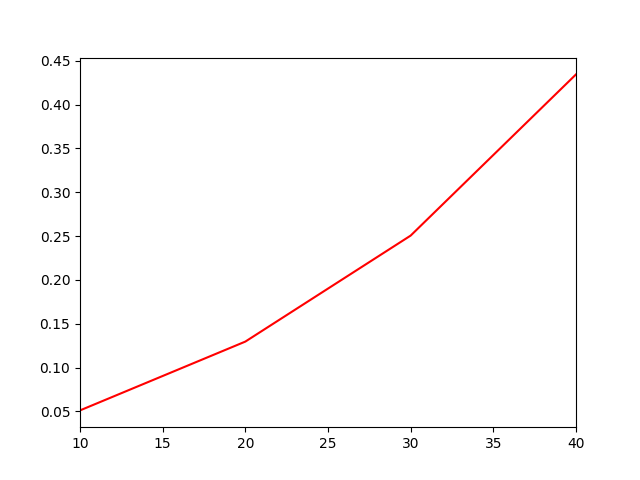
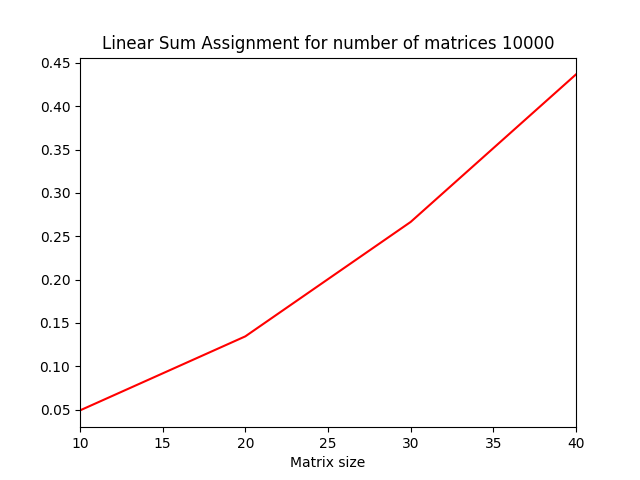
updating the ploting and then more timing runs and adding the greedy algo extended

diff --git a/src/PlotingMockData.py b/src/PlotingMockData.py
@@ -2,58 +2,59 @@ import matplotlib.pyplot as plt
 from src.MockDataGenerator import MockDataGenerator
 from src.OptimizeAlgoApplied import OptimizeAlgoApplied
 from src.GreedyAlgo import GreedyAlgo
+from src.GreedyAlgoExtended import GreedyAlgoExtended
 import os
 import timeit
+import time
+import h5py
 
 if __name__ == '__main__':
     MockDataGenerator = MockDataGenerator()
     OptimizeAlgoApplied = OptimizeAlgoApplied()
     GreedyAlgo = GreedyAlgo(OptimizeAlgoApplied)
-    """
-    matrix_sizes = [10, 20, 40, 60, 80, 100]
-    number_of_matrices = 10000
+    GreedyAlgoExtended = GreedyAlgoExtended(OptimizeAlgoApplied)
+
+
+    matrix_sizes = [i for i in range(10, 121, 5)]
+    num_of_matrices = 25000
 
     execution_times_linear = []
     execution_times_greedy = []
-
-    for matrix_size in matrix_sizes:
-        cost_matrices = MockDataGenerator.loadig_mock_data(f'./data/mock_data_{matrix_size}.h5', number_of_matrices)
-        execution_time_linear = timeit.timeit('[OptimizeAlgoApplied.compute_linear_sum_assignment(cost_matrices[i]) for i in range(number_of_matrices)]', globals=globals(), number=1)
-        execution_times_linear.append(execution_time_linear)
-        execution_time_greedy = timeit.timeit('GreedyAlgo.greedy_linear_applied(cost_matrices, 10000)', globals=globals(), number=1)
-        execution_times_greedy.append(execution_time_greedy)
+    execution_times_greedy_extended = []
 
     print(matrix_sizes)
-    print(execution_times_linear)
-    print(execution_times_greedy)
-
-    plt.plot(matrix_sizes, execution_times_linear, color='red')
-    plt.plot(matrix_sizes, execution_times_greedy, color='blue')
-    plt.xlim(min(matrix_sizes), max(matrix_sizes))
-    #plt.ylim(min(execution_times_linear + execution_times_greedy), max(execution_times_linear + execution_times_greedy))
-    plt.savefig(f'./png/mock_data_together.png', format='png')
-    plt.show()
-    """
-
-    matrix_sizes = [i for i in range(10, 41, 10)]
-    num_of_matrices = 10000
-
-    execution_times_linear = []
-
-    print(matrix_sizes)
+    start = time.time()
     for matrix_size in matrix_sizes:
         filepath = f'./data/mock_data_{matrix_size}.h5'
         MockDataGenerator.creating_mock_data(filepath, num_of_matrices, matrix_size)
         cost_matrices = MockDataGenerator.loadig_mock_data(filepath, num_of_matrices)
         execution_time_linear = timeit.timeit('[OptimizeAlgoApplied.compute_linear_sum_assignment(cost_matrices[i]) for i in range(num_of_matrices)]', globals=globals(), number=1)
         execution_times_linear.append(execution_time_linear)
+        execution_time_greedy = timeit.timeit('GreedyAlgo.greedy_linear_applied(cost_matrices, num_of_matrices)', globals=globals(), number=1)
+        execution_times_greedy.append(execution_time_greedy)
+        execution_time_greedy_extended = timeit.timeit('GreedyAlgoExtended.greedy_linear_applied(cost_matrices, num_of_matrices)', globals=globals(), number=1)
+        execution_times_greedy_extended.append(execution_time_greedy_extended)
         os.remove(filepath)
-
+    end = time.time()
+    print(f'Execution time: {end - start} seconds')
     plt.plot(matrix_sizes, execution_times_linear, color='red')
+    plt.plot(matrix_sizes, execution_times_greedy, color='blue')
+    plt.plot(matrix_sizes, execution_times_greedy_extended, color='green')
     plt.xlim(min(matrix_sizes), max(matrix_sizes))
-    plt.savefig(f'./png/mock_data_linear_{num_of_matrices}_{matrix_sizes[-1]}.png', format='png')
-    plt.title('Linear Sum Assignment for matrix size 10000')
+    plt.xticks(matrix_sizes, rotation=90)
+    plt.title(f'For number of matrices {num_of_matrices}')
     plt.xlabel('Matrix size')
+    plt.legend(['Linear Sum Assignment', 'Greedy Assignment', 'Greedy Extended Assignment'])
+    plt.savefig(f'./png/mock_data_linear_vs_greedy_vs_extended_{num_of_matrices}_{matrix_sizes[-1]}.png', format='png')
     plt.show()
+
+    with h5py.File(f'./data/timings_{num_of_matrices}_{matrix_sizes[-1]}.h5', 'w') as file:
+        file.create_dataset('linear_sum_assignment_timing', data=execution_times_linear)
+        file.create_dataset('greedy_sum_assignment_timing', data=execution_times_greedy)
+        file.create_dataset('greedy_extended_sum_assignment_timing', data=execution_times_greedy_extended)
+        file.create_dataset('matrix_sizes', data=matrix_sizes)
+        file.close()
+
+
 
 

diff --git a/src/GreedyAlgoExtended.py b/src/GreedyAlgoExtended.py
@@ -1,0 +1,74 @@
+import numpy as np
+from itertools import combinations
+from itertools import chain
+from src.OptimizeAlgoApplied import OptimizeAlgoApplied
+from src.MockDataGenerator import MockDataGenerator
+from src.GreedyAlgo import GreedyAlgo
+
+class GreedyAlgoExtended:
+    def __init__(self, OptimizeAlgoApplied):
+        self.OptimizeAlgoApplied = OptimizeAlgoApplied
+
+    def greedy_extended_sub_matrices(self, matrix, vertical_split, horizontal_split):
+        if not (isinstance(vertical_split, list) and isinstance(horizontal_split, list)):
+            return "Invalid input"  # Check if vertical and Horizontal are lists
+
+        vertical_slices = np.vsplit(matrix, vertical_split)  # does the vertical Split
+
+        sub_matrices = []
+        horizontal_slices = []
+        horizontal_slices_sum = []
+        for i in range(len(horizontal_split) + 1):  # for each vertical split do horizontal split
+            horizontal_slice = np.hsplit(vertical_slices[i], horizontal_split)  # does the horizontal split
+            horizontal_slices.append(horizontal_slice)  # adds de correct sub matrix to the return
+            horizontal_slices_sum.append([i.sum() for i in horizontal_slice])
+        mapping = self.OptimizeAlgoApplied.compute_linear_sum_assignment(horizontal_slices_sum)
+        for i in range(len(mapping[0])):
+            sub_matrices.append(horizontal_slices[mapping[0][i]][mapping[1][i]])
+        return sub_matrices, mapping
+
+    def greedy_linear_applied(self, cost_matrices, num_of_matrices):
+        total_mapping = []
+        for k in range(num_of_matrices):
+            rows = len(cost_matrices[k])
+            cols = len(cost_matrices[k][0])
+            row_interval = [round(rows / 4), round(rows / 2), round(rows / 4) * 3]
+            col_interval = [round(cols / 4), round(cols / 2), round(cols / 4) * 3]
+            sub_matrices, mapping = self.greedy_extended_sub_matrices(cost_matrices[k], row_interval, col_interval)
+
+            mapping_row = []
+            mapping_col = []
+            for j in range(len(sub_matrices)):
+                row, col = self.OptimizeAlgoApplied.compute_linear_sum_assignment(sub_matrices[j])
+                mapping_row.append(row)
+                mapping_col.append(col)
+
+            complete_row_mapping = []
+            complete_col_mapping = []
+            row_interval.insert(0, 0)
+            col_interval.insert(0, 0)
+            for j in range(len(mapping_row)):
+                complete_row_mapping.append(mapping_row[j] + row_interval[mapping[0][j]])
+                complete_col_mapping.append(mapping_col[j] + col_interval[mapping[1][j]])
+
+            total_mapping.append([list(chain(*complete_row_mapping)), list(chain(*complete_col_mapping))])
+        return total_mapping
+
+if __name__ == '__main__':
+    OptimizeAlgoApplied = OptimizeAlgoApplied()
+    GreedyAlgoExtended = GreedyAlgoExtended(OptimizeAlgoApplied)
+    MockDataGenerator = MockDataGenerator()
+
+    #MockDataGenerator.creating_mock_data('./data/mock_data_greedy.h5', 1, 20)
+    matrix = MockDataGenerator.loadig_mock_data('./data/mock_data_greedy.h5', 1)
+
+    test_mapping = GreedyAlgoExtended.greedy_linear_applied(matrix, 1)
+    print()
+    for i in range(len(test_mapping[0][0])):
+        print(f'{test_mapping[0][0][i]} -> {test_mapping[0][1][i]}')
+
+
+
+
+
+
